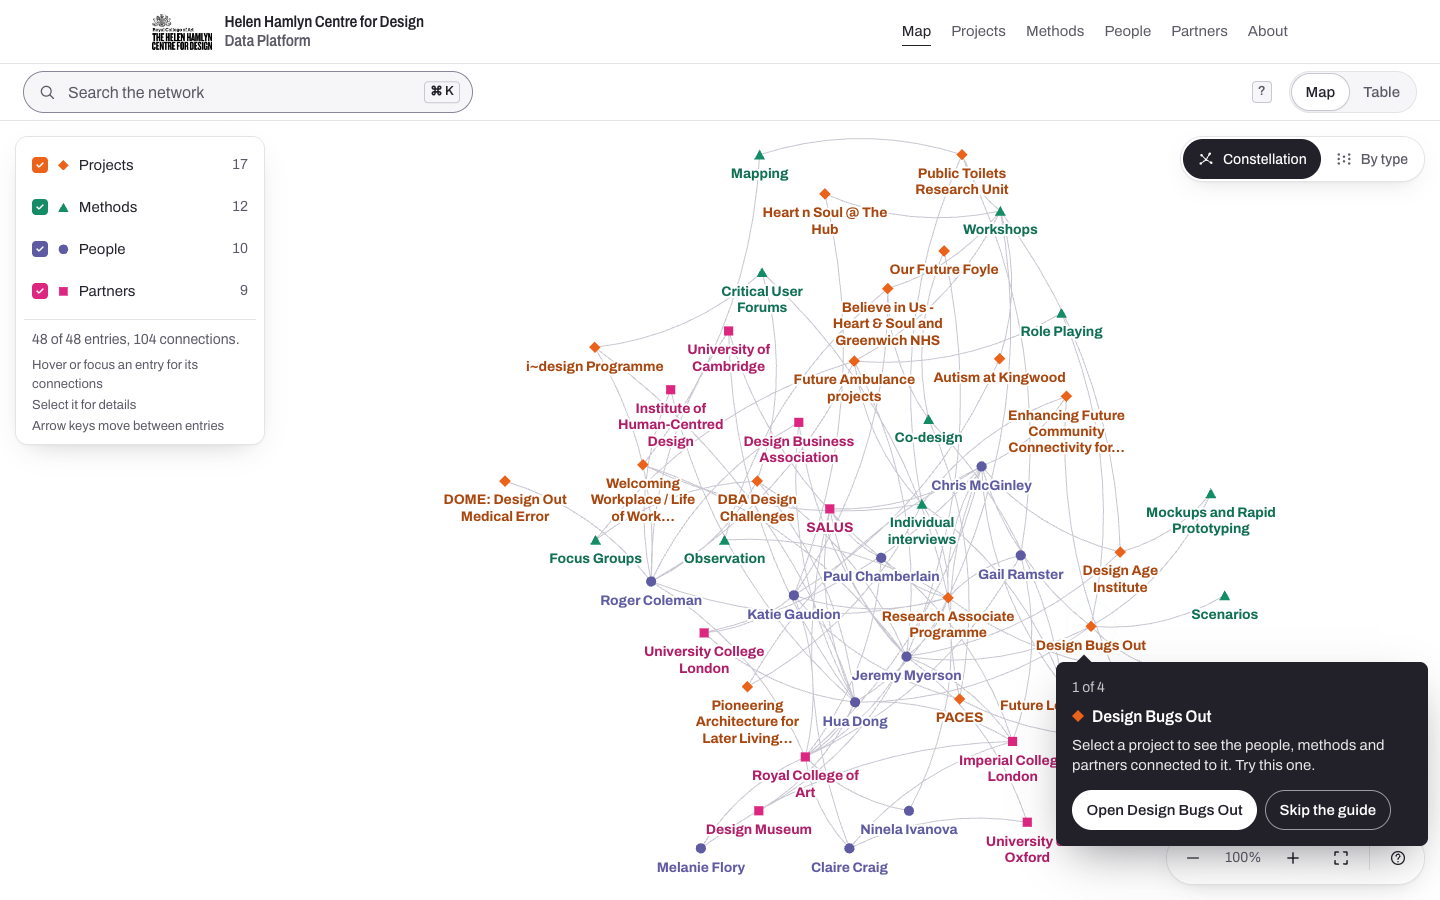
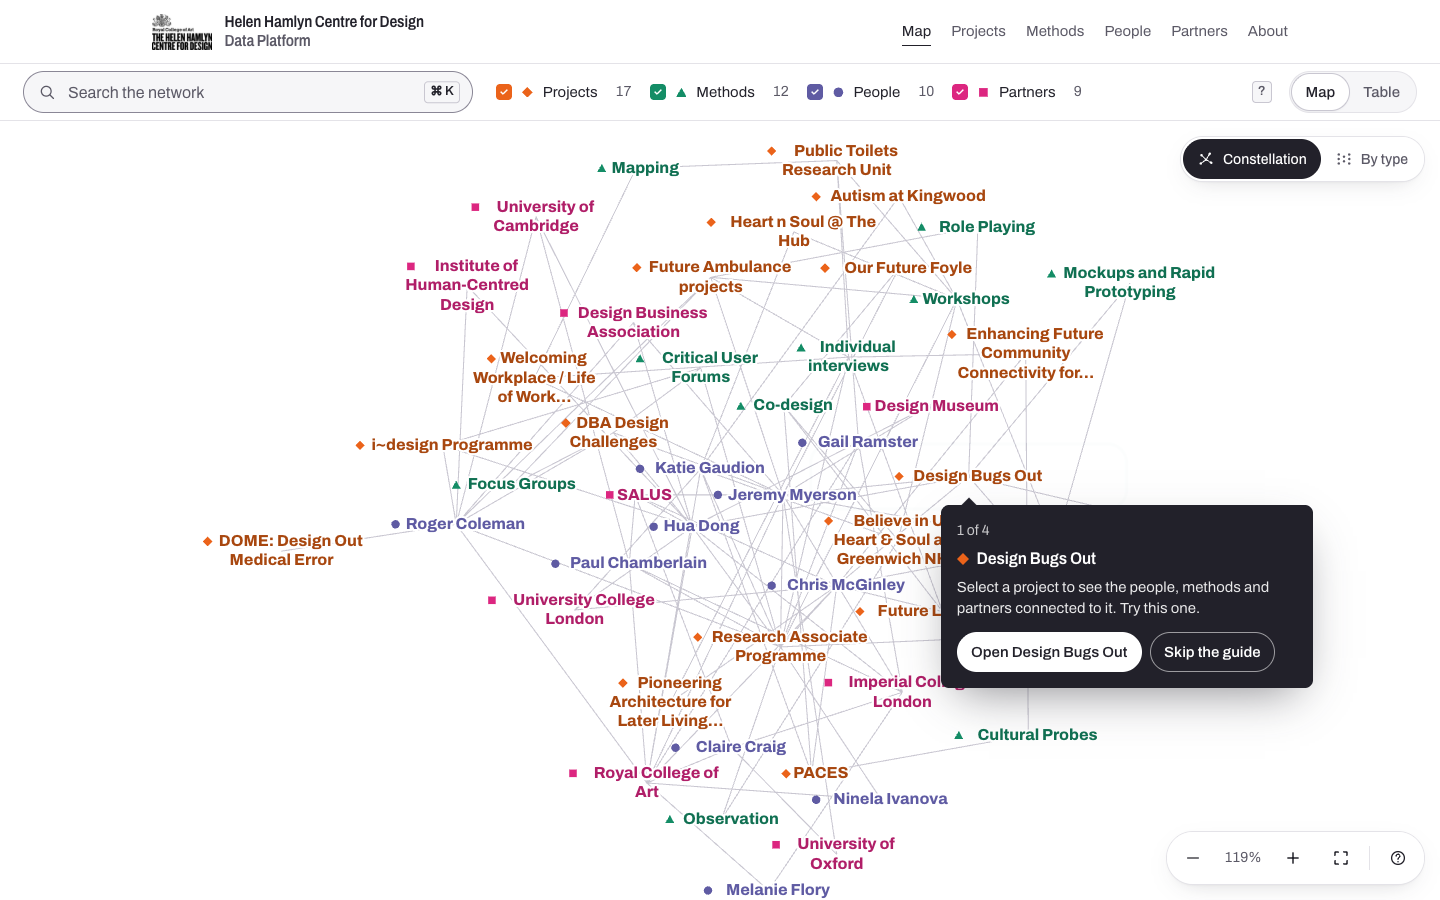
Constellation as in the original: names as nodes, straight threads; filters beside search
- Each name is the node, centred on its point, bold in its type's colour,
  with a small type shape before it; edges are straight light lines
- Wider frame and more spacing; the map opens at a readable zoom
- Filters sit to the right of the search box (a menu on smaller screens);
  the legend panel is gone

Claude-Session: https://claude.ai/code/session_014KayvLjfZAn1qfA8mMiKjx

diff --git a/src/components/explore/GraphView.tsx b/src/components/explore/GraphView.tsx
@@ -7,6 +7,7 @@ import 'd3-transition';
 import type { GraphNode } from '@/lib/types';
 import { TYPE_META } from '@/lib/types-meta';
 import {
+  STAR_CHAR,
   COLUMN_ORDER,
   NODE_RADIUS,
   easeInOut,
@@ -25,7 +26,6 @@ import { MARK_PATHS, TypeMark } from '../TypeMark';
 import { useExplorer } from './ExplorerContext';
 import { ColumnsIcon, ConstellationIcon, FitIcon, GuideIcon, MinusIcon, PlusIcon } from './icons';
 import { GuideCard } from './GuideCard';
-import { TypeFilters } from './TypeFilters';
 
 const R = NODE_RADIUS;
 /** Switching arrangement: each type sets off a little after the previous one. */
@@ -193,7 +193,7 @@ export function GraphView() {
       // On wide screens, leave room for the legend panel at the top left.
       // On wide screens, leave room for the legend panel at the top left, and
       // keep the top and bottom clear of the floating controls.
-      const reserve = w >= 768 ? Math.min(280, w * 0.22) : 0;
+      const reserve = 0;
       const top = w >= 768 ? 44 : 52;
       const bottom = 56;
       const k = Math.min((w - reserve) / layout.width, (h - top - bottom) / layout.height) * 0.98;
@@ -204,14 +204,21 @@ export function GraphView() {
     [layout],
   );
 
-  /** The opening view: the whole map, or on a narrow screen, readable labels around the guide's project. */
+  /**
+   * The opening view: like the original platform, close enough that names
+   * read at a comfortable size (about 16px), centred on the network, or on a
+   * narrow screen on the guide's project. The fit button shows everything.
+   */
   const openingTransform = useCallback(
     (w: number, h: number) => {
       const fit = fitTransform(w, h);
-      if (fit.k >= FEW_LABELS_BELOW) return fit;
-      const k = 0.82;
+      const k = Math.max(fit.k, w >= 768 ? 0.84 : 0.82);
+      if (k === fit.k) return fit;
+      if (w >= 768) {
+        return zoomIdentity.translate(w / 2 - (layout.width / 2) * k, h / 2 + 10 - (layout.height / 2) * k).scale(k);
+      }
       const focus = layout.positions.constellation[guideStartId] ?? { x: layout.width / 2, y: layout.height / 2 };
-      return zoomIdentity.translate(w * 0.32 - focus.x * k, h * 0.38 - focus.y * k).scale(k);
+      return zoomIdentity.translate(w * 0.42 - focus.x * k, h * 0.36 - focus.y * k).scale(k);
     },
     [fitTransform, layout, guideStartId],
   );
@@ -416,8 +423,9 @@ export function GraphView() {
           // Constellation: a gentle arc, like the threads of a mycelium.
           // Columns: an S-curve. Both are written as cubic curves so one
           // blends into the other during the move.
-          const qx = (s.x + e.x) / 2 - (e.y - s.y) * 0.16;
-          const qy = (s.y + e.y) / 2 + (e.x - s.x) * 0.16;
+          // Constellation: straight threads between names, as in the original.
+          const qx = (s.x + e.x) / 2;
+          const qy = (s.y + e.y) / 2;
           const arc1 = { x: s.x + ((qx - s.x) * 2) / 3, y: s.y + ((qy - s.y) * 2) / 3 };
           const arc2 = { x: e.x + ((qx - e.x) * 2) / 3, y: e.y + ((qy - e.y) * 2) / 3 };
           const mid = (s.x + e.x) / 2;
@@ -466,8 +474,24 @@ export function GraphView() {
           const box = starBox(n.name);
           const content = (
             <>
-              {isGuide && <circle cx={0} cy={0} r={R + 9} className="guide-pulse" />}
-              <circle cx={0} cy={0} r={R + 5} className="focus-ring" />
+              {isGuide &&
+                (starOp > 0.5 ? (
+                  <rect x={box.left - 6} y={box.top - 6} width={box.right - box.left + 12} height={box.bottom - box.top + 12} rx={12} className="guide-pulse" />
+                ) : (
+                  <circle cx={0} cy={0} r={R + 9} className="guide-pulse" />
+                ))}
+              {starOp > 0.5 ? (
+                <rect
+                  x={(box.left - 4) * scale}
+                  y={(box.top - 4) * scale}
+                  width={(box.right - box.left + 8) * scale}
+                  height={(box.bottom - box.top + 8) * scale}
+                  rx={8}
+                  className="focus-ring"
+                />
+              ) : (
+                <circle cx={0} cy={0} r={R + 5} className="focus-ring" />
+              )}
               {/* generous hit area: the mark and its label, in whichever arrangement is showing */}
               {starOp > 0.5 ? (
                 <rect
@@ -480,9 +504,16 @@ export function GraphView() {
               ) : (
                 <rect x={-R - 8} y={-16} width={R * 2 + 16 + labelWidth(n.name) * scale} height={32} fill="transparent" />
               )}
+              {/* The type's shape: before the name in the constellation, the entry's point in columns. */}
               <path
                 d={MARK_PATHS[n.type]}
-                transform={`translate(${-R} ${-R}) scale(${(R * 2) / 10})`}
+                transform={(() => {
+                  const t = 1 - starOp;
+                  const mx = (-(lines[0].length * STAR_CHAR + 22) / 2 + 7) * scale * (1 - t);
+                  const my = ((-(lines.length * STAR_LINE) / 2 + STAR_LINE * 0.5) * scale) * (1 - t);
+                  const r = R * (0.8 * (1 - t) + t);
+                  return `translate(${mx - r} ${my - r}) scale(${(r * 2) / 10})`;
+                })()}
                 fill={`var(--color-${meta.token})`}
               />
               {showLabel && starOp > 0 && (
@@ -492,7 +523,7 @@ export function GraphView() {
                   style={{ opacity: starOp, fill: `var(--color-${meta.token}-text)` }}
                 >
                   {lines.map((line, i) => (
-                    <tspan key={i} x={0} y={R + 6 + STAR_LINE * (i + 0.78)}>
+                    <tspan key={i} x={i === 0 ? 11 : 0} y={-(lines.length * STAR_LINE) / 2 + STAR_LINE * (i + 0.74)}>
                       {line}
                     </tspan>
                   ))}
@@ -560,7 +591,7 @@ export function GraphView() {
   if (mounted && guide === 'select' && startNode && size && wide) {
     const [sx, sy0] = transform.apply([pos[guideStartId].x, pos[guideStartId].y]);
     // Below the entry's label (constellation labels sit under the mark).
-    const sy = sy0 + (starOpacity(progress.get(guideStartId) ?? 0) > 0.5 ? starBox(startNode.name).bottom * transform.k - R : 0);
+    const sy = sy0 + (starOpacity(progress.get(guideStartId) ?? 0) > 0.5 ? starBox(startNode.name).bottom * transform.k : 0);
     const cardW = 372;
     const left = Math.max(12, Math.min(size.w - cardW - 12, sx - 28));
     // (The caret points up at the entry from 28px in.)
@@ -572,7 +603,6 @@ export function GraphView() {
 
   return (
     <div className="relative h-full w-full overflow-hidden bg-paper">
-      <TypeFilters variant="panel" />
 
       {mounted && (
         <fieldset className="absolute right-3 top-3 z-10 md:right-4 md:top-4">

diff --git a/src/components/explore/TypeFilters.tsx b/src/components/explore/TypeFilters.tsx
@@ -12,16 +12,16 @@ import { CollapseIcon, ExpandIcon } from './icons';
  * in a small panel at the top left, as in the original platform; on a narrow
  * screen the panel folds away behind a button. Above the table it is a row.
  */
-export function TypeFilters({ variant }: { variant: 'panel' | 'row' }) {
+export function TypeFilters({ variant }: { variant: 'menu' | 'row' }) {
   const { visibleTypes, filters } = useExplorer();
-  const { totals, toggleType, statusText, wide } = filters;
+  const { totals, toggleType, statusText } = filters;
   const [open, setOpen] = useState(false);
   const id = useId();
 
   const list = (
     <fieldset className="min-w-0">
       <legend className="sr-only">Show entity types</legend>
-      <ul className={variant === 'panel' ? 'space-y-0.5' : '-mx-1 flex flex-wrap gap-x-1'}>
+      <ul className={variant === 'menu' ? 'space-y-0.5' : 'flex flex-nowrap gap-x-0.5'}>
         {BROWSE_ORDER.map((t) => (
           <li key={t}>
             <label className="group relative flex min-h-10 cursor-pointer select-none items-center gap-2.5 rounded-md px-2 text-[0.9375rem] text-ink ring-accent transition-colors hover:bg-surface has-[:focus-visible]:ring-2">
@@ -54,67 +54,35 @@ export function TypeFilters({ variant }: { variant: 'panel' | 'row' }) {
     </fieldset>
   );
 
-  if (variant === 'row') {
-    return (
-      <div className="js-only flex flex-wrap items-center justify-between gap-x-6 gap-y-1">
-        {list}
-        <p className="meta" aria-hidden="true">
-          {statusText}
-        </p>
-      </div>
-    );
-  }
-
-  const body = (
-    <>
-      {list}
-      <div className="mt-2 border-t border-rule px-2 pt-2.5">
-        <p className="meta" aria-hidden="true">
-          {statusText}
-        </p>
-        {wide && (
-          <ul className="meta mt-1.5 space-y-0.5 text-[0.8125rem]">
-            <li>Hover or focus an entry for its connections</li>
-            <li>Select it for details</li>
-            <li>Arrow keys move between entries</li>
-          </ul>
-        )}
-      </div>
-    </>
-  );
+  if (variant === 'row') return <div className="js-only flex-none">{list}</div>;
 
   return (
-    <div className="js-only absolute left-3 top-3 z-10 w-[min(15.5rem,calc(100%-1.5rem))] md:left-4 md:top-4">
-      {wide ? (
-        <div className="rounded-xl bg-paper/95 p-2 shadow-[0_1px_2px_rgb(34_33_42/0.08),0_10px_30px_-14px_rgb(34_33_42/0.3)] ring-1 ring-rule backdrop-blur-sm">
-          {body}
-        </div>
-      ) : (
-        <>
-          <button
-            type="button"
-            aria-expanded={open}
-            aria-controls={id}
-            onClick={() => setOpen((v) => !v)}
-            className="inline-flex min-h-10 items-center gap-2 rounded-full bg-paper/95 px-3.5 text-[0.875rem] font-medium text-ink shadow-[0_1px_2px_rgb(34_33_42/0.08),0_8px_24px_-12px_rgb(34_33_42/0.25)] ring-1 ring-rule"
-          >
-            <span className="flex gap-0.5" aria-hidden="true">
-              {BROWSE_ORDER.map((t) => (
-                <TypeMark key={t} type={t} size="0.6em" />
-              ))}
-            </span>
-            Filters
-            {open ? <ExpandIcon /> : <CollapseIcon />}
-          </button>
-          <div
-            id={id}
-            hidden={!open}
-            className="mt-2 rounded-xl bg-paper p-2 shadow-[0_10px_30px_-14px_rgb(34_33_42/0.35)] ring-1 ring-rule"
-          >
-            {body}
-          </div>
-        </>
-      )}
+    <div className="js-only relative flex-none">
+      <button
+        type="button"
+        aria-expanded={open}
+        aria-controls={id}
+        onClick={() => setOpen((v) => !v)}
+        className="inline-flex min-h-10 items-center gap-1.5 rounded-full px-3 text-[0.875rem] font-medium text-ink ring-1 ring-control"
+      >
+        <span className="flex gap-0.5" aria-hidden="true">
+          {BROWSE_ORDER.map((t) => (
+            <TypeMark key={t} type={t} size="0.55em" />
+          ))}
+        </span>
+        <span className="max-sm:sr-only">Filters</span>
+        {open ? <ExpandIcon /> : <CollapseIcon />}
+      </button>
+      <div
+        id={id}
+        hidden={!open}
+        className="absolute right-0 top-12 z-40 w-60 rounded-xl bg-paper p-2 shadow-[0_10px_30px_-14px_rgb(34_33_42/0.35)] ring-1 ring-rule"
+      >
+        {list}
+        <p className="meta mt-2 border-t border-rule px-2 pt-2" aria-hidden="true">
+          {statusText}
+        </p>
+      </div>
     </div>
   );
 }

diff --git a/src/lib/layout.ts b/src/lib/layout.ts
@@ -20,7 +20,7 @@ import { forceLink, forceManyBody, forceSimulation, forceX, forceY, forceCollide
 import type { SimulationLinkDatum, SimulationNodeDatum } from 'd3-force';
 import type { GraphData, NodeType } from './types';
 
-export const LAYOUT_WIDTH = 1200;
+export const LAYOUT_WIDTH = 1600;
 export const COLUMN_ORDER: NodeType[] = ['Partners', 'People', 'Projects', 'Methods'];
 /** Column positions as fractions of the map width. */
 export const COLUMN_X = [0.01, 0.27, 0.53, 0.78];
@@ -34,9 +34,9 @@ export const LABEL_MAX = 34;
  * bold and in its type's colour, centred under the entry's mark and wrapped
  * onto up to three lines.
  */
-export const STAR_FONT = 17;
-export const STAR_LINE = 20;
-const STAR_CHAR = 9.4;
+export const STAR_FONT = 19;
+export const STAR_LINE = 23;
+export const STAR_CHAR = 10.5;
 const STAR_WRAP = 18;
 const STAR_MAX_LINES = 3;
 
@@ -66,8 +66,10 @@ export function wrapLabel(name: string): string[] {
 /** The extent of a constellation entry (mark plus wrapped label) relative to its point. */
 export function starBox(name: string): { left: number; right: number; top: number; bottom: number } {
   const lines = wrapLabel(name);
-  const w = Math.max(NODE_RADIUS * 2, ...lines.map((l) => l.length * STAR_CHAR)) + 8;
-  return { left: -w / 2, right: w / 2, top: -NODE_RADIUS - 4, bottom: NODE_RADIUS + 6 + lines.length * STAR_LINE };
+  // The name is the node, centred on its point; a small type mark sits before the first line.
+  const w = Math.max(...lines.map((l, i) => l.length * STAR_CHAR + (i === 0 ? 22 : 0))) + 8;
+  const h = lines.length * STAR_LINE + 6;
+  return { left: -w / 2, right: w / 2, top: -h / 2, bottom: h / 2 };
 }
 
 export type Arrangement = 'constellation' | 'columns';
@@ -107,7 +109,7 @@ export function computeLayout(data: GraphData): Layout {
   const constellation = computeConstellation(
     data,
     LAYOUT_WIDTH,
-    Math.max(perColumn * 38 + 140, Math.round(Math.sqrt(data.nodes.length) * 132)),
+    Math.max(perColumn * 38 + 140, Math.round(Math.sqrt(data.nodes.length) * 128)),
   );
   const height = constellation.height;
   return {
@@ -150,8 +152,8 @@ function computeConstellation(data: GraphData, width: number, height: number): {
   });
   const links: SimulationLinkDatum<SimNode>[] = data.links.map((l) => ({ source: l.source, target: l.target }));
 
-  const PAD_X = 10;
-  const PAD_Y = 8;
+  const PAD_X = 26;
+  const PAD_Y = 18;
   const boxCollide = (strength = 0.7) => {
     for (let i = 0; i < nodes.length; i++) {
       for (let j = i + 1; j < nodes.length; j++) {
@@ -192,12 +194,12 @@ function computeConstellation(data: GraphData, width: number, height: number): {
       'link',
       forceLink<SimNode, SimulationLinkDatum<SimNode>>(links)
         .id((d) => d.id)
-        .distance(120)
+        .distance(150)
         .strength(0.22),
     )
     .force('charge', forceManyBody<SimNode>().strength(-420).distanceMax(520))
-    .force('x', forceX<SimNode>(width / 2).strength(0.03))
-    .force('y', forceY<SimNode>(height / 2).strength(0.045))
+    .force('x', forceX<SimNode>(width / 2).strength(0.012))
+    .force('y', forceY<SimNode>(height / 2).strength(0.07))
     .force('collide', forceCollide<SimNode>(R + 34))
     .stop();
 

diff --git a/src/components/explore/NetworkExplorer.tsx b/src/components/explore/NetworkExplorer.tsx
@@ -13,6 +13,7 @@ import { isMacLike, isTypingTarget, useMediaQuery, useMounted, WIDE_LAYOUT_QUERY
 import { ExplorerContext, type ExplorerState, type GuideStep } from './ExplorerContext';
 import { GraphView } from './GraphView';
 import { TableView } from './TableView';
+import { TypeFilters } from './TypeFilters';
 import { DetailsPanel } from './DetailsPanel';
 import { KeyboardHelp } from './KeyboardHelp';
 import { CloseIcon, SearchIcon } from './icons';
@@ -50,6 +51,8 @@ export function NetworkExplorer({ data, layout: givenLayout }: { data: GraphData
   const view: ExploreView = pathname?.startsWith('/table') ? 'table' : 'map';
   const mounted = useMounted();
   const wide = useMediaQuery(WIDE_LAYOUT_QUERY, true);
+  // Room for the filters inline beside the search box; otherwise they fold into a menu.
+  const roomy = useMediaQuery('(min-width: 1100px)', true);
 
   const index = useMemo(() => indexGraph(data), [data]);
   // The layout is computed at build time and passed in; tests may omit it.
@@ -318,7 +321,8 @@ export function NetworkExplorer({ data, layout: givenLayout }: { data: GraphData
                 </kbd>
               )}
             </search>
-            {/* Read with the search box; shown on screen in the legend or above the table. */}
+            <TypeFilters variant={roomy ? 'row' : 'menu'} />
+            {/* Read with the search box. */}
             <p id="search-status" className="sr-only">
               {statusText}
             </p>

diff --git a/src/components/explore/TableView.tsx b/src/components/explore/TableView.tsx
@@ -10,7 +10,6 @@ import { excerpt } from '@/lib/text';
 import { useMounted } from '@/lib/hooks';
 import { TypeMark } from '../TypeMark';
 import { useExplorer } from './ExplorerContext';
-import { TypeFilters } from './TypeFilters';
 
 type SortKey = 'type' | 'name';
 
@@ -53,7 +52,6 @@ export function TableView() {
 
   return (
     <div className="mx-auto max-w-[78rem] px-4 pb-20 pt-4 md:px-6">
-      <TypeFilters variant="row" />
       {rows.length === 0 ? (
         <p className="lead mt-10">
           {searching ? `No entries match “${searchTerm.trim()}”.` : 'All entity types are filtered out. Turn one back on to see entries.'}

diff --git a/src/app/globals.css b/src/app/globals.css
@@ -342,8 +342,8 @@ kbd {
 }
 /* Constellation labels: the name in its type's colour, bold and centred, as in the original platform. */
 .graph-node text.star-label {
-  font-size: 17px;
-  font-weight: 720;
+  font-size: 19px;
+  font-weight: 760;
   letter-spacing: -0.005em;
   text-anchor: middle;
   stroke-width: 5px;
